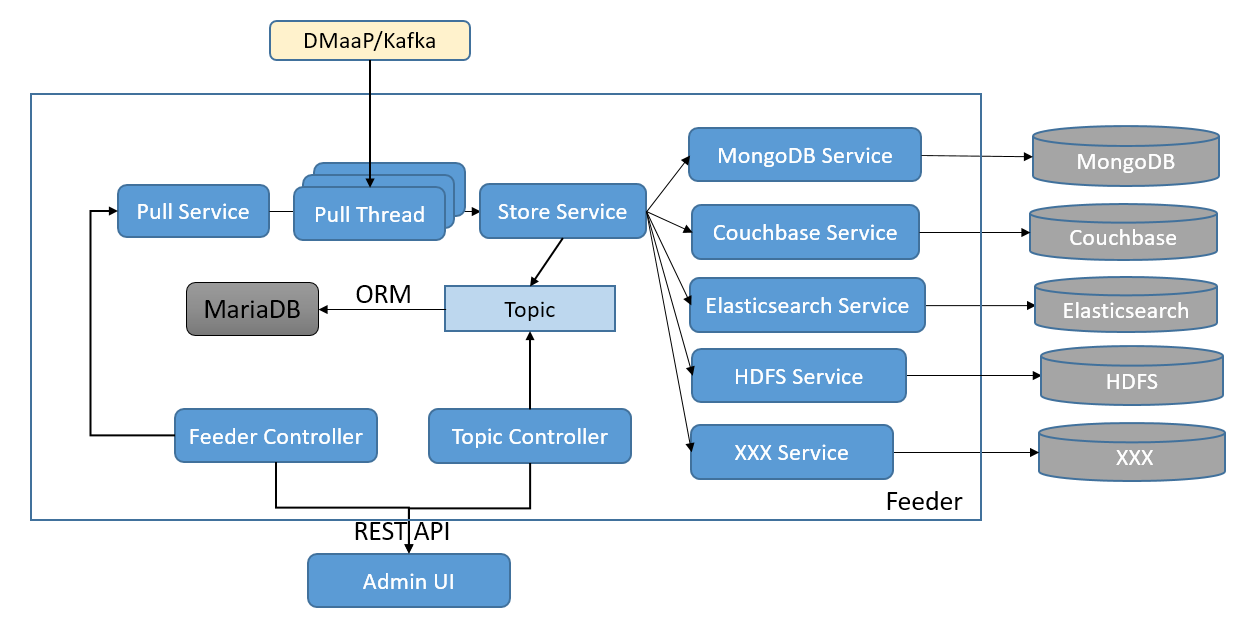
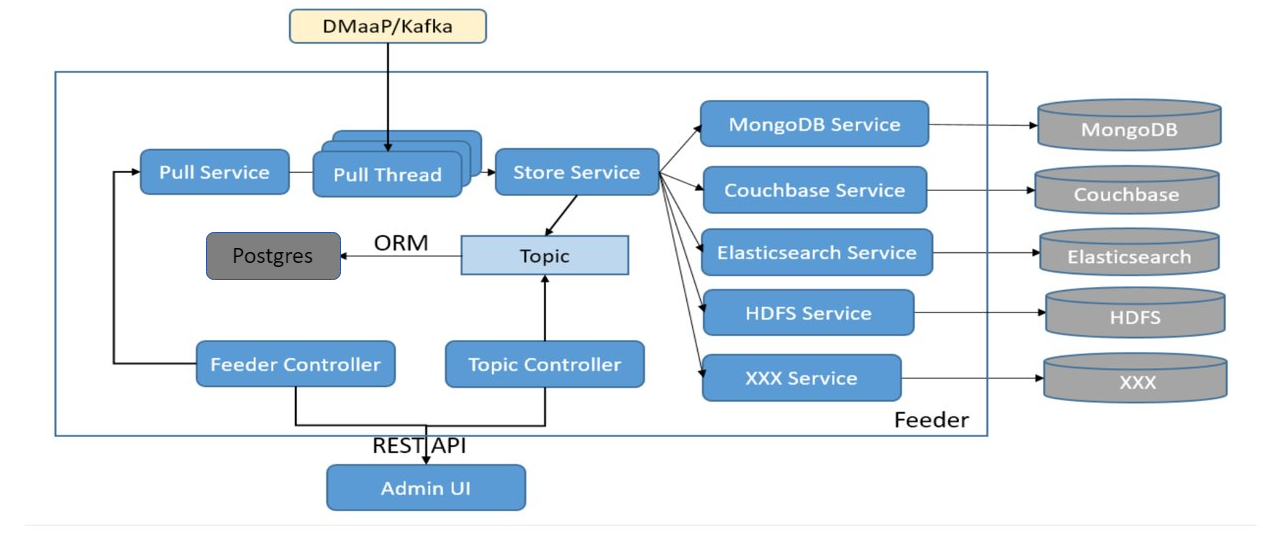
Update database change in datalake-handler documentation
Issue-ID: DCAEGEN2-2329

Changed region(s): [[0.0311, 0.0, 0.9936, 0.9851]]

diff --git a/docs/sections/services/datalake-handler/overview.rst b/docs/sections/services/datalake-handler/overview.rst
@@ -49,7 +49,7 @@ A system administrator uses DataLake Admin UI to:
   - Configure which Topics to monitor, which databases to store the data for each Topic.
   - Pre-configured 3rd Party Tools dashboards and templates.
 
-This UI tool is used to manage all the Dayalake settings stored in MariaDB. Here is the database schema:
+This UI tool is used to manage all the Dayalake settings stored in postgres. Here is the database schema:
 
 .. image:: ./dbschema.PNG
 
@@ -62,8 +62,8 @@ Features
 
    - Read data directly from Kafka for performance.
    - Support for pluggable databases. To add a new database, we only need to implement its corrosponding service.
-   - Support REST API for inter-component communications. Besides managing DatAlake settings in MariaDB, Admin UI also use this API to start/stop Feeder, query Feeder status and statistics.
-   - Use MariaDB to store settings.
+   - Support REST API for inter-component communications. Besides managing DatAlake settings in postgres, Admin UI also use this API to start/stop Feeder, query Feeder status and statistics.
+   - Use postgres to store settings.
    - Support data processing features. Before persisting data, data can be massaged in Feeder. Currently two features are implemented: Correlate Cleared Message (in org.onap.datalake.feeder.service.db.ElasticsearchService)  and Flatten JSON Array (org.onap.datalake.feeder.service.StoreService).
    - Connection to Kafka and DBs are secured
 

diff --git a/docs/sections/services/datalake-handler/installation.rst b/docs/sections/services/datalake-handler/installation.rst
@@ -9,7 +9,7 @@ DL-handler consists of three pods- the feeder, admin UI and des. It can be deplo
 
 Pre-requisite
 -------------
-Make sure mariadb-galera from OOM is properly deployed and functional.
+Make sure dcae postgres is properly deployed and functional.
 An external database, such as Elasticsearch and MongoDB is deployed. Install mongodb through the following command.
 
      #docker run -itd --restart=always --name dl-mongo -p 27017:27017 mongo
